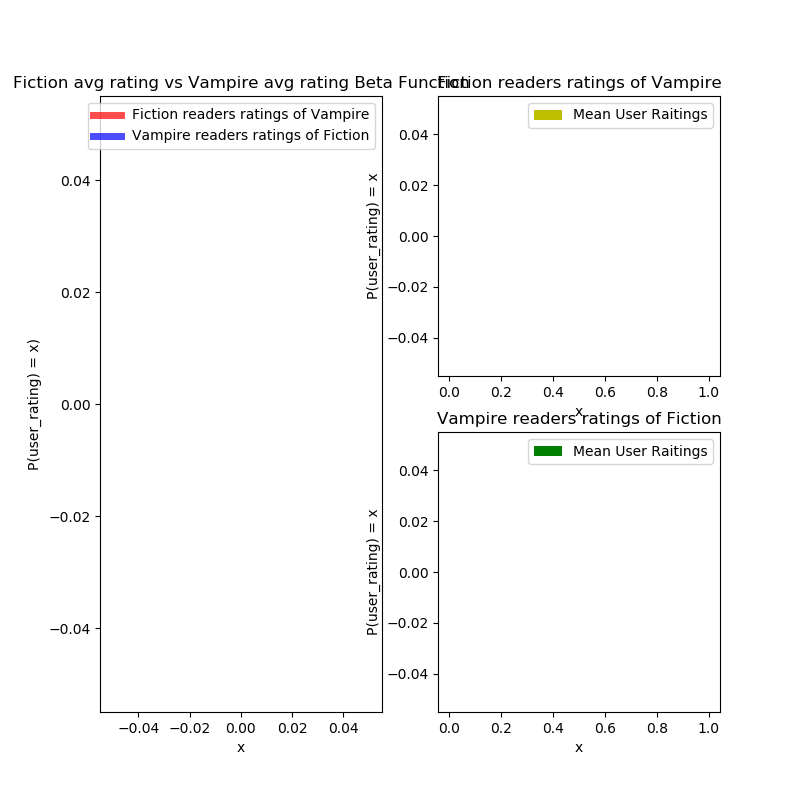
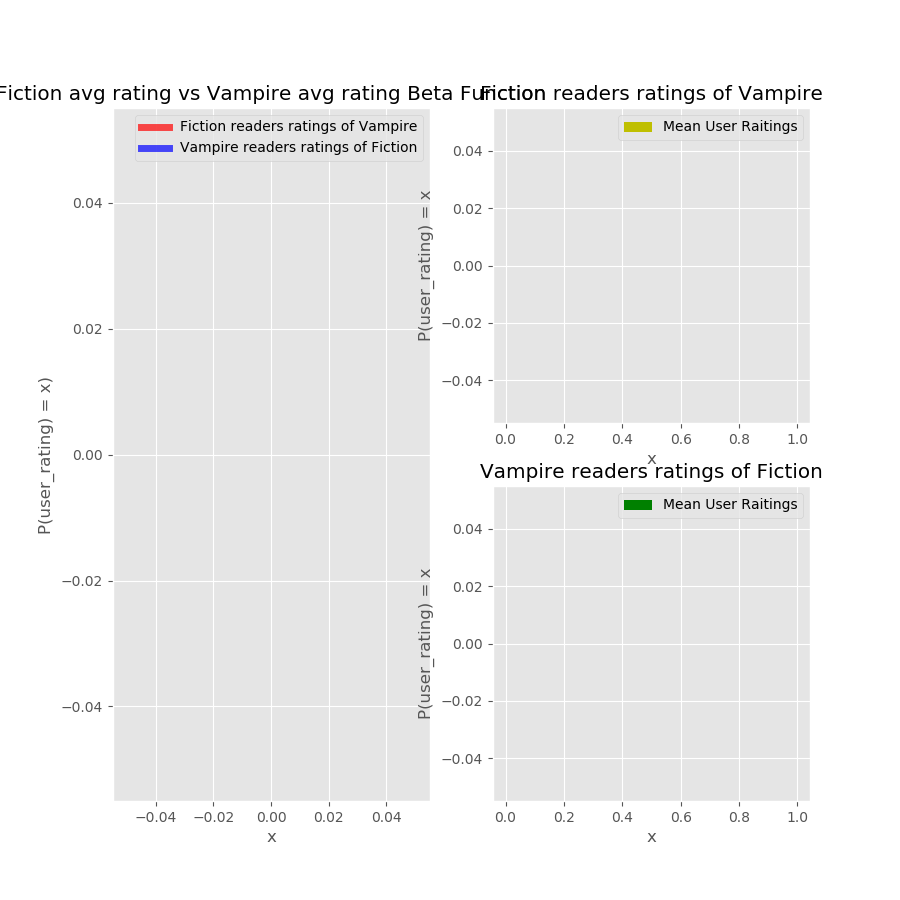
worked on readme and improved how graphs look

diff --git a/src/BetaDist.py b/src/BetaDist.py
@@ -4,6 +4,7 @@ import pandas as pd
 import matplotlib.pyplot as plt
 import matplotlib.gridspec as gridspec
 from typing import List, Optional
+plt.style.use('ggplot')
 
 class Beta(object):
     '''
@@ -56,7 +57,7 @@ class Beta(object):
         df2_a, df2_b = self.get_beta_params(df2_avg, self.tag)
 
         #setting up plot figure
-        fig = plt.figure(figsize=(8,8))
+        fig = plt.figure(figsize=(9,9))
         gs = gridspec.GridSpec(2,2)
         ax = fig.add_subplot(gs[:,0])
         ax1 = fig.add_subplot(gs[0,1])

diff --git a/src/GenreTest.py b/src/GenreTest.py
@@ -9,6 +9,7 @@ from sklearn.feature_extraction.text import CountVectorizer, TfidfTransformer
 from sklearn.naive_bayes import MultinomialNB
 from sklearn.pipeline import Pipeline
 from sklearn.model_selection import GridSearchCV
+plt.style.use('ggplot')
 
 def langSelect(df, lang):
     '''

diff --git a/src/linearReg.py b/src/linearReg.py
@@ -9,6 +9,7 @@ import pandas as pd
 import matplotlib.pyplot as plt
 import utils as ut
 
+
 class linearReg(object):
     def __init__(self, X, y):
         self.X = X

diff --git a/README.md b/README.md
@@ -4,7 +4,7 @@
 
 - [Project Explanation and Goals](#project-explanation-and-goals)    
 - [Baysian A/B testing](#baysian-ab-testing)        
-    - [Fantasy and Literature](#fantasy-and-literature)        
+    - [Fantasy and Fiction](#fantasy-and-fiction)        
     - [Literature and History](#literature-and-history)        
     - [Science and Religion](#science-and-religion)        
     - [Top 10 tags](#top-10-tags)    
@@ -48,13 +48,25 @@ After finishing all this up it was off to the races.
 
 ## Baysian A/B testing
 
-After cleaning and orginizing my dataset, I decided that the beset way to compare genres would be through Baysian A/B testing because it can show the mean rating that users give to other genres and can give me a numerical values for how much better does one genre fan like another genre.
+After cleaning and orginizing my dataset, I decided that the beset way to compare genres would be through Baysian A/B testing because it can show the mean rating that users give to other genres and can give me a numerical values for how much better does one genre fan like another genre. For these experments my Null is that individuals give the same rating to any genre and my Alt is that they give differnt values.
 
-### Fantasy and Literature
-The first two genres I compared were fantasy and literature.
+### Fantasy and Fiction
+The first two genres I compared were fantasy and fiction being the two most common book types.
+
+```python
+df_fantasy = isolate_tag(df_tags_books, 'fantasy', min_books_read)
+df_fic = isolate_tag(df_tags_books, 'fiction', min_books_read)
+fantasy_fic = Beta.Beta(df_fantasy, df_fic, 'user_rating').compile_analysis('Fantasy', 'Fiction', Plot=True)
+plt.show()
+print('A/B test, Difference in Mean Raiting', fantasy_fic)
+'A/B test, Difference in Mean Raiting' [0.5153, -0.012692577030812365]
+```
+
 ![alt text](images/fig_Fantasy.png)
 
-Fantasy tended to only raited literture higher than literature raited fantasy 48% of the time which combined with the graph shows to me that if you are a fan of fantasy or literature you are very likely to enjoy the other genre.
+From running the A/B test and the Beta function produced I found that acording to the data there is almost no difference in the ratings that fans of fantasy give to fiction and vice-versa. I ended up getting that model B was better than model A about 50% of the time which once again shows no difference between the two models which makes it so I can't reject the null. This does make some sense because these two genres tend to have a lot of overlap in intrests and some individuals might consider a fantasy novel to be fiction which would definetly skew the data one way or another.
+
+To double check the distribution of user raitings I took the difference between the average fantasy rating and the average fiction and found that on average, there is only a -.01 point difference between how individuals rate fantasy and fiction. To me this shows that if you like fiction or fantasy, you will mostlikly like the other genre equally as much.
 
 ### Literature and History
 
